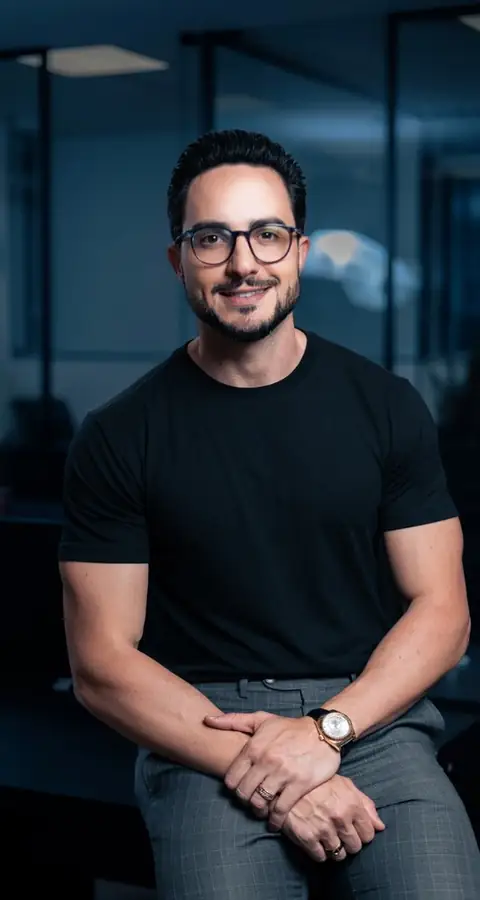
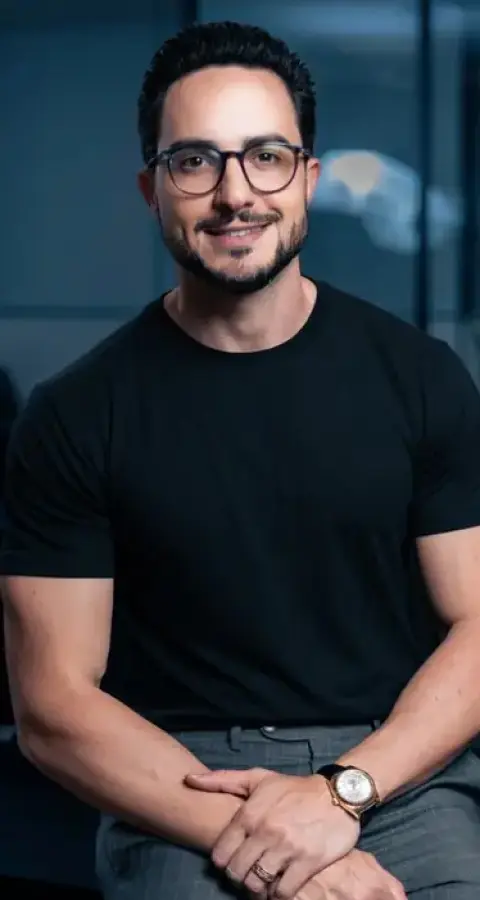
adiciona página /marketing-juridico para teste A/B com foco em keywords de marketing jurídico

diff --git a/src/components/legacy-advogados/sections/Hero.tsx b/src/components/legacy-advogados/sections/Hero.tsx
@@ -32,9 +32,19 @@ const squad = [
   },
 ] as const;
 
-export function Hero() {
+interface HeroProps {
+  headline?: string;
+  headlineHighlight?: string;
+  subHeadline?: string;
+}
+
+export function Hero({ headline, headlineHighlight, subHeadline }: HeroProps) {
+  const h1Main = headline ?? "Advogados que dependem de indicação";
+  const h1Highlight = headlineHighlight ?? "crescem devagar.";
+  const sub = subHeadline ?? "Escritórios que constroem uma máquina de aquisição crescem com previsibilidade.";
+
   return (
-    <section className="relative flex min-h-screen items-center overflow-hidden pb-16 pt-4 sm:pt-6 lg:min-h-[90vh] lg:flex-col lg:items-stretch lg:pt-[140px] lg:pb-24">
+    <section className="relative flex min-h-screen items-center overflow-hidden pb-16 pt-4 sm:pt-6 lg:flex-col lg:items-center lg:justify-center lg:pt-[100px] lg:pb-8">
       <div className="pointer-events-none absolute inset-0 bg-gradient-hero" />
       <div
         className="pointer-events-none absolute inset-0 opacity-100"
@@ -48,20 +58,20 @@ export function Hero() {
 
       <div className="relative z-10 mx-auto w-full max-w-[1280px] px-6 lg:px-8">
         <div className="mx-auto flex w-full flex-col items-center gap-10 lg:gap-5">
-          <div className="mx-auto w-full max-w-6xl text-center lg:flex lg:min-h-[calc(70vh-4.5rem)] lg:flex-col lg:justify-center lg:py-2">
+          <div className="mx-auto w-full max-w-6xl text-center lg:flex lg:flex-col lg:justify-center lg:py-0">
             <div className="mb-4 flex justify-center lg:hidden">
               <a href="#" className="inline-flex py-0.5" aria-label="Scale Company — início">
                 <ScaleLogo heightClass="h-9" className="max-w-[240px]" />
               </a>
             </div>
-            <h1 className="mb-3 text-center font-display text-[1.65rem] font-extrabold leading-[1.08] tracking-tight text-white sm:text-3xl sm:leading-[1.06] md:text-display-2xl md:leading-[0.98] md:tracking-[-0.03em]">
-              Advogados que dependem de indicação{" "}
-              <span className="text-gradient-white">crescem devagar.</span>
+            <h1 className="mb-3 text-center font-display text-[1.65rem] font-extrabold leading-[1.08] tracking-tight text-white sm:text-3xl sm:leading-[1.06] md:text-[clamp(2.1rem,4.9vw,3.85rem)] md:leading-[0.98] md:tracking-[-0.03em]">
+              {h1Main}{" "}
+              <span className="text-gradient-white">{h1Highlight}</span>
             </h1>
 
             <div className="mx-auto w-[70%] max-w-full text-center">
               <p className="mb-6 mt-2 text-center font-display text-base font-bold leading-snug text-brand-orange sm:text-lg sm:leading-tight md:text-display-md md:leading-[1.06]">
-                Escritórios que constroem uma máquina de aquisição crescem com previsibilidade.
+                {sub}
               </p>
 
               <p className="mx-auto mb-8 max-w-2xl text-center text-sm leading-relaxed text-content-secondary sm:text-base md:text-lg lg:mb-3">
@@ -72,17 +82,11 @@ export function Hero() {
           </div>
 
           {/* Expanding image panels */}
-          <div className="-mt-[40px] flex h-[min(37.2vh,336px)] w-full min-h-[228px] overflow-hidden border border-white/[0.1] shadow-elevated sm:h-[min(36vh,372px)] md:mt-0 md:h-[min(60vh,620px)] md:min-h-[380px] lg:-mt-2">
-              {squad.map((person, index) => (
+          <div className="-mt-[40px] flex w-full overflow-hidden border border-white/[0.1] shadow-elevated aspect-[4/3] md:mt-0 lg:-mt-2 lg:aspect-auto lg:h-[min(38vh,400px)]">
+              {squad.map((person) => (
                 <div
                   key={person.name}
-                  tabIndex={0}
-                  className={cn(
-                    "group relative min-w-0 flex-1 overflow-hidden transition-[flex] duration-500 ease-[cubic-bezier(0.22,1,0.36,1)]",
-                    "cursor-default md:cursor-pointer",
-                    "md:hover:flex-[2.6] md:focus-visible:flex-[2.6]",
-                    "focus-visible:outline-none md:focus-visible:ring-2 md:focus-visible:ring-inset md:focus-visible:ring-brand-blue/60"
-                  )}
+                  className="group relative min-w-0 flex-1 overflow-hidden"
                 >
                   <div className={cn("absolute inset-0 z-0", person.bg)} />
                   <Image
@@ -91,8 +95,8 @@ export function Hero() {
                     alt={`Retrato de ${person.name}, ${person.role}`}
                     fill
                     sizes="(max-width: 1024px) 34vw, 28vw"
-                    className="relative z-[1] object-cover object-top transition duration-500 md:group-hover:scale-[1.03]"
-                    priority={index === 2}
+                    className="relative z-[1] object-cover object-top"
+                    priority
                   />
                   <div className="pointer-events-none absolute inset-0 z-[2] bg-gradient-to-t from-black/80 via-black/20 to-transparent opacity-90 md:transition-opacity md:duration-300 md:group-hover:opacity-100" />
                   <div className="absolute inset-x-0 bottom-0 z-[3] flex flex-col items-center justify-end p-3 text-center sm:p-4 md:p-5">
@@ -105,9 +109,6 @@ export function Hero() {
                     >
                       <p className="font-display text-lg font-bold leading-tight text-white sm:text-xl md:text-2xl">
                         {person.name}
-                      </p>
-                      <p className="mx-auto mt-1 max-w-[18rem] text-xs leading-snug text-white/85 sm:text-sm">
-                        {person.role}
                       </p>
                     </div>
                   </div>

diff --git a/src/components/legacy-advogados/AdvogadosLanding.tsx b/src/components/legacy-advogados/AdvogadosLanding.tsx
@@ -68,11 +68,17 @@ function DeferredSection({ children }: { children: ReactNode }) {
   );
 }
 
-export default function AdvogadosPage() {
+interface AdvogadosPageProps {
+  heroHeadline?: string;
+  heroHeadlineHighlight?: string;
+  heroSubHeadline?: string;
+}
+
+export default function AdvogadosPage({ heroHeadline, heroHeadlineHighlight, heroSubHeadline }: AdvogadosPageProps) {
   return (
     <main>
       <Navbar />
-      <Hero />
+      <Hero headline={heroHeadline} headlineHighlight={heroHeadlineHighlight} subHeadline={heroSubHeadline} />
       <DeferredSection>
         <Problem />
       </DeferredSection>

diff --git a/src/components/legacy-advogados/AdvogadosLandingWithProvider.tsx b/src/components/legacy-advogados/AdvogadosLandingWithProvider.tsx
@@ -2,10 +2,16 @@ import AdvogadosLanding from "@/components/legacy-advogados/AdvogadosLanding";
 import { LeadFormProvider } from "@/components/legacy-advogados/contexts/lead-form-context";
 import { LeadFormModal } from "@/components/legacy-advogados/ui/lead-form-modal";
 
-export default function AdvogadosLandingWithProvider() {
+interface Props {
+  heroHeadline?: string;
+  heroHeadlineHighlight?: string;
+  heroSubHeadline?: string;
+}
+
+export default function AdvogadosLandingWithProvider({ heroHeadline, heroHeadlineHighlight, heroSubHeadline }: Props) {
   return (
     <LeadFormProvider>
-      <AdvogadosLanding />
+      <AdvogadosLanding heroHeadline={heroHeadline} heroHeadlineHighlight={heroHeadlineHighlight} heroSubHeadline={heroSubHeadline} />
       <LeadFormModal />
     </LeadFormProvider>
   );